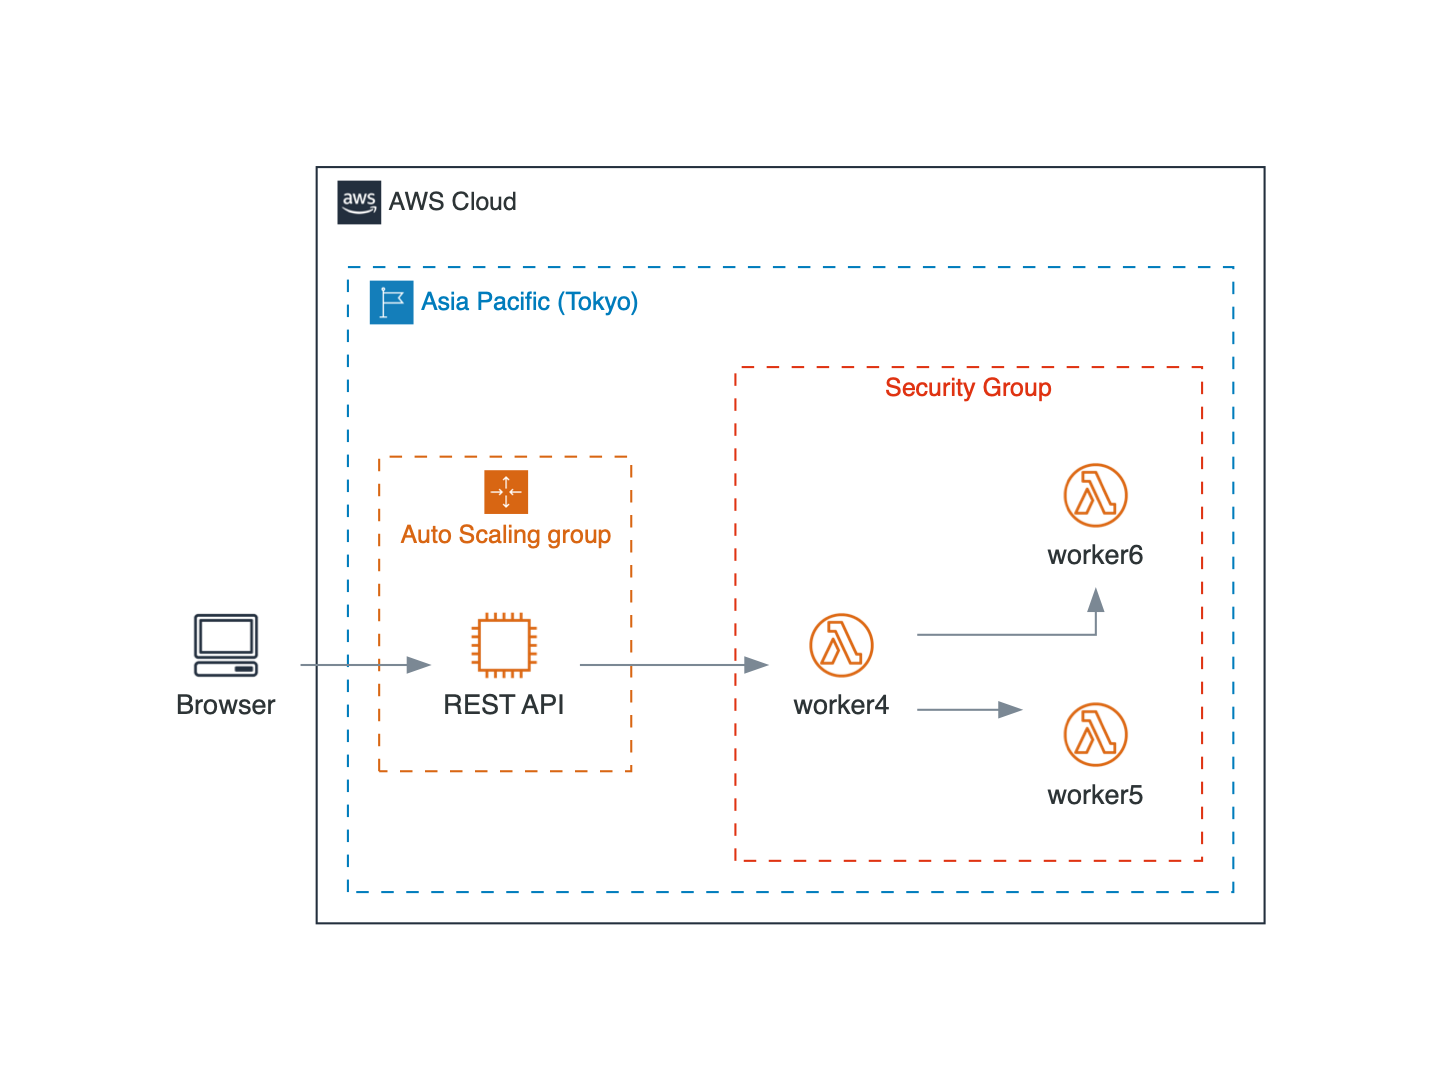
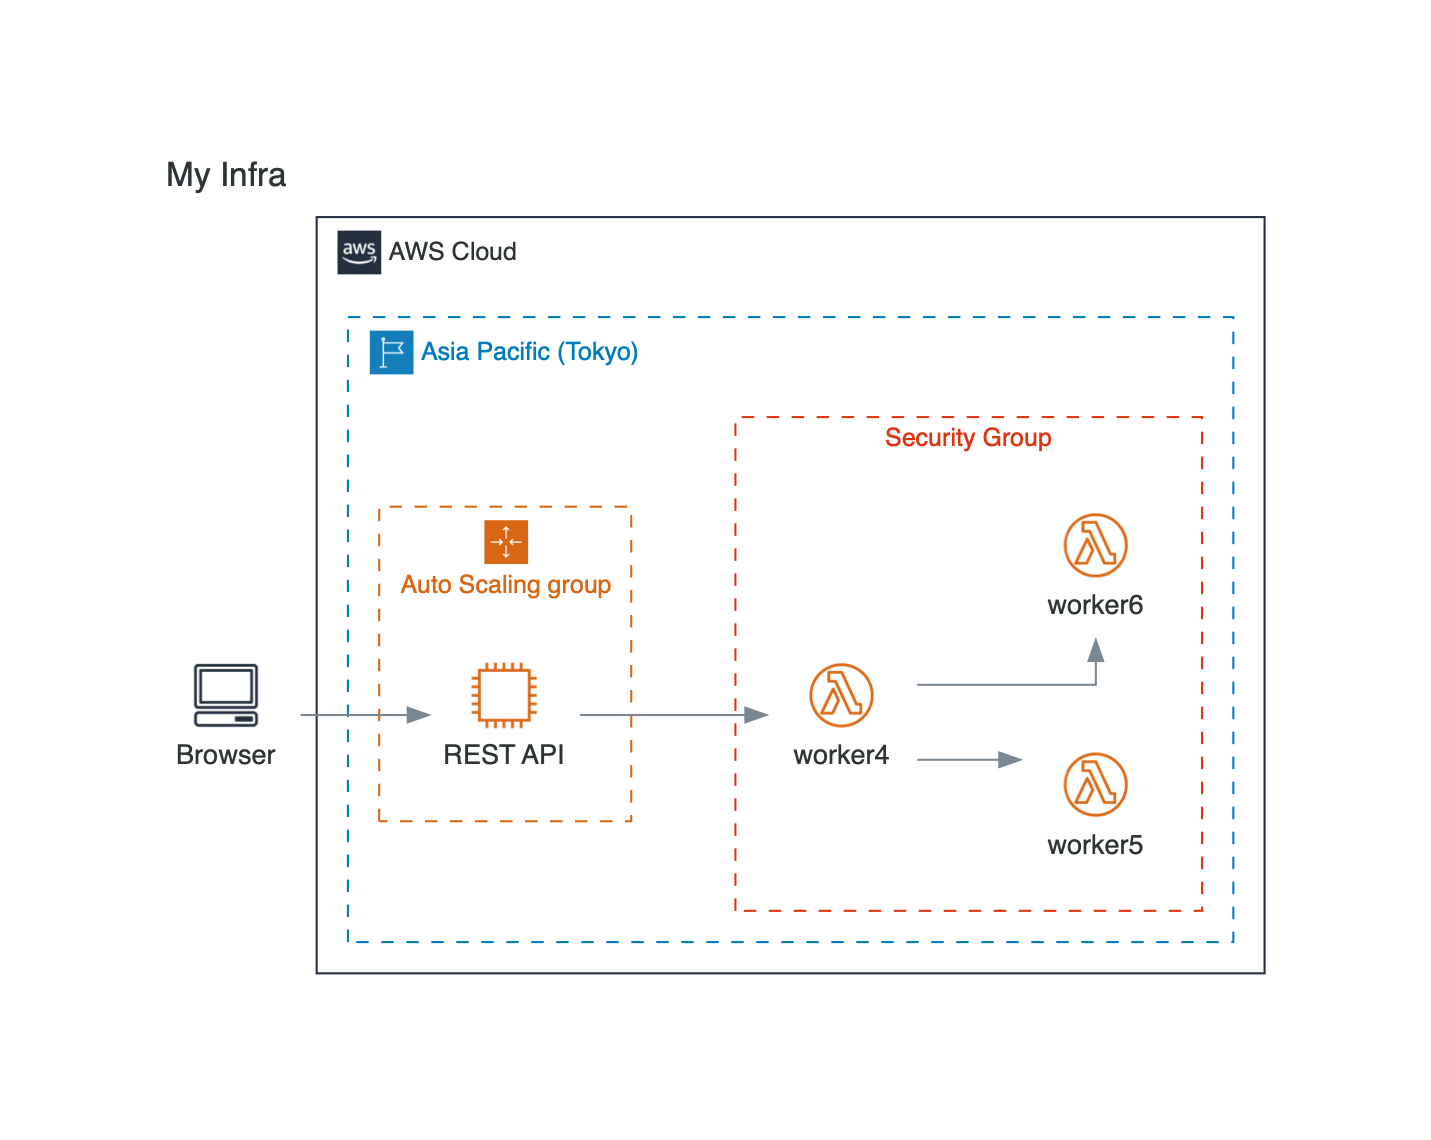
add VPC

diff --git a/component-libraries/aws/src/components/groups/VPC.tsx b/component-libraries/aws/src/components/groups/VPC.tsx
@@ -1,0 +1,111 @@
+import { resolve } from 'path';
+import React, { FC, useMemo } from 'react';
+import { Subgraph, DOT } from '@ts-graphviz/react';
+import t from 'prop-types';
+import { useAssertProvider } from '../../hooks/assert-provider';
+
+let securityGroupID = 0;
+
+type Props = {
+  type?: Type;
+};
+
+type Type = 'VPC' | 'Private subnet' | 'Public subnet';
+
+function resolveImage(type?: Type): string {
+  switch (type) {
+    case 'Private subnet':
+      return resolve(__dirname, '../../../assets/groups/VPC/subnet-private.png');
+    case 'Public subnet':
+      return resolve(__dirname, '../../../assets/groups/VPC/subnet-public.png');
+    default:
+      return resolve(__dirname, '../../../assets/groups/VPC.png');
+  }
+}
+
+function resolveBgcolor(type?: Type): string | undefined {
+  switch (type) {
+    case 'Private subnet':
+      return '#007CBC0a';
+    case 'Public subnet':
+      return '#1D89000a';
+    default:
+      return 'none';
+  }
+}
+
+function resolveFontcolor(type?: Type): string | undefined {
+  switch (type) {
+    case 'Private subnet':
+      return '#007CBC';
+    case 'Public subnet':
+      return '#1D8900';
+    default:
+      return '#1D8900';
+  }
+}
+
+function resolveColor(type?: Type): string | undefined {
+  switch (type) {
+    case 'Private subnet':
+    case 'Public subnet':
+      return 'none';
+    default:
+      return '#1D8900';
+  }
+}
+
+function useStyle(
+  type?: Type,
+): { fontcolor: string | undefined; bgcolor: string | undefined; color: string | undefined; icon: string } {
+  return useMemo(() => {
+    return {
+      color: resolveColor(type),
+      fontcolor: resolveFontcolor(type),
+      bgcolor: resolveBgcolor(type),
+      icon: resolveImage(type),
+    };
+  }, [type]);
+}
+
+export const VPC: FC<Props> = ({ type, children }) => {
+  useAssertProvider();
+  const id = useMemo(() => {
+    securityGroupID += 1;
+    return securityGroupID;
+  }, []);
+  const { icon, color, bgcolor, fontcolor } = useStyle(type);
+  return (
+    <Subgraph
+      id={`cluster_vpc_${id}`}
+      fontsize="12"
+      labelloc="t"
+      labeljust="l"
+      color={color}
+      bgcolor={bgcolor}
+      fontcolor={fontcolor}
+      label={
+        <DOT.TABLE BORDER="0" CELLBORDER="0" CELLSPACING="0">
+          <DOT.TR>
+            <DOT.TD WIDTH="25" HEIGHT="25" FIXEDSIZE>
+              <DOT.IMG SRC={icon} />
+            </DOT.TD>
+            <DOT.TD>{type}</DOT.TD>
+          </DOT.TR>
+        </DOT.TABLE>
+      }
+    >
+      {children}
+    </Subgraph>
+  );
+};
+
+VPC.displayName = 'VPC';
+
+VPC.defaultProps = {
+  type: 'VPC',
+};
+
+VPC.propTypes = {
+  type: t.oneOf<Type>(['VPC', 'Private subnet', 'Public subnet']),
+};

diff --git a/examples/aws/src/ChefAutomateArchitectureOnAWS.tsx b/examples/aws/src/ChefAutomateArchitectureOnAWS.tsx
@@ -1,0 +1,30 @@
+import React, { FC } from 'react';
+import { DOT } from '@ts-graphviz/react';
+import { Diagram } from '@diagrams-prototype/common';
+import { AWS, EC2, VPC } from '@diagrams-prototype/aws';
+
+export const ChefAutomateArchitectureOnAWS: FC = () => {
+  return (
+    <Diagram title="Chef Automate Architecture on AWS">
+      <AWS>
+        <VPC>
+          <VPC type="Public subnet">
+            <EC2 type="Instance" name="instance1" upstream={['instance2']}>
+              <>
+                Chef workstation
+                <DOT.BR />
+                (local Chef repo)
+              </>
+            </EC2>
+            <EC2 type="Instance" name="instance2" upstream={['instance3']}>
+              Chef node
+            </EC2>
+            <EC2 type="Instance" name="instance3" upstream={['instance1']}>
+              Chef Automate
+            </EC2>
+          </VPC>
+        </VPC>
+      </AWS>
+    </Diagram>
+  );
+};

diff --git a/examples/aws/src/main.tsx b/examples/aws/src/main.tsx
@@ -4,6 +4,8 @@ import { resolve } from 'path';
 import { renderToFile } from '@diagrams-prototype/common';
 import { MyInfra } from './MyInfra';
 import { GitToS3WebHooks } from './GitToS3WebHooks';
+import { ChefAutomateArchitectureOnAWS } from './ChefAutomateArchitectureOnAWS';
 
 renderToFile(<MyInfra />, resolve(__dirname, '../MyInfra.png'));
 renderToFile(<GitToS3WebHooks />, resolve(__dirname, '../GitToS3WebHooks.png'));
+renderToFile(<ChefAutomateArchitectureOnAWS />, resolve(__dirname, '../ChefAutomateArchitectureOnAWS.png'));

diff --git a/component-libraries/aws/src/index.ts b/component-libraries/aws/src/index.ts
@@ -7,5 +7,6 @@ export * from './components/groups/Region';
 export * from './components/groups/AvailabilityZone';
 export * from './components/groups/SecurityGroup';
 export * from './components/groups/AutoScalingGroup';
+export * from './components/groups/VPC';
 export * from './components/general/GeneralIcon';
 export * from './components/general/Text';

diff --git a/examples/aws/src/MyInfra.tsx b/examples/aws/src/MyInfra.tsx
@@ -13,7 +13,7 @@ import {
 
 export const MyInfra: FC = () => {
   return (
-    <Diagram>
+    <Diagram title="My Infra">
       <AWS>
         <Region name="Asia Pacific (Tokyo)">
           <AutoScalingGroup>

diff --git a/README.md b/README.md
@@ -1,9 +1,13 @@
 # @kamiazya/diagrams-prototype
 
-## [MyInfra](./examples/aws/src/MyInfra.tsx)
+## [My Infra](./examples/aws/src/MyInfra.tsx)
 
 ![MyInfra](./examples/aws/MyInfra.png)
 
-## [GitToS3WebHooks](./examples/aws/src/GitToS3WebHooks.tsx)
+## [Git to S3 WebHooks](./examples/aws/src/GitToS3WebHooks.tsx)
 
 ![GitToS3WebHooks](./examples/aws/GitToS3WebHooks.png)
+
+## [Chef Automate Architecture on AWS](./examples/aws/src/ChefAutomateArchitectureOnAWS.tsx)
+
+![ChefAutomateArchitectureOnAWS](./examples/aws/ChefAutomateArchitectureOnAWS.png)
